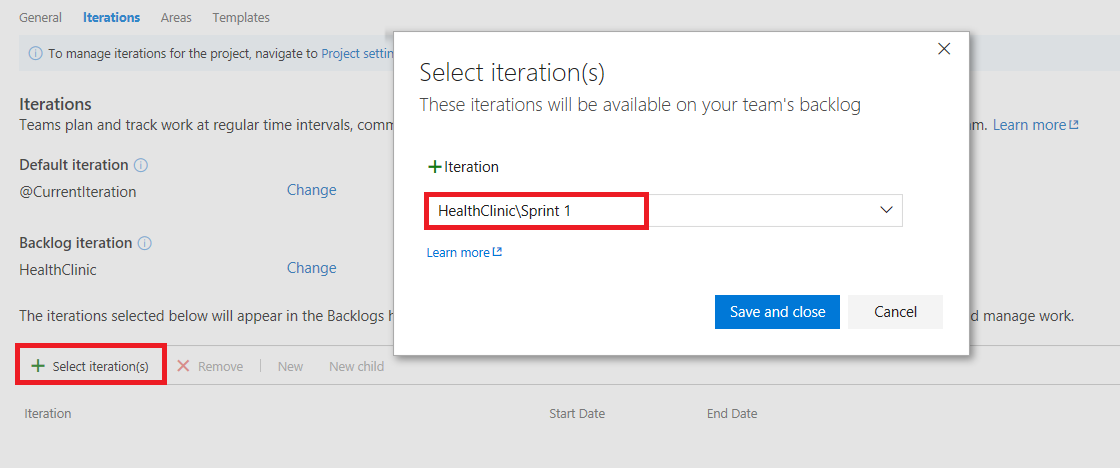
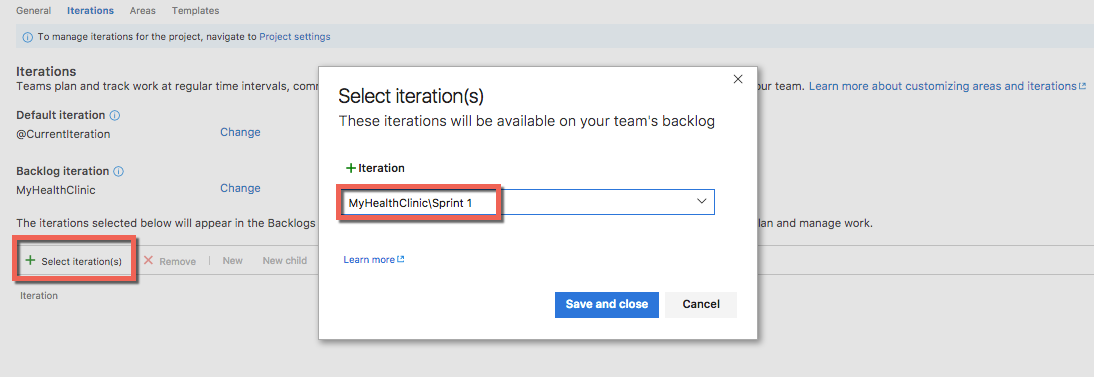
Updated exercise 1 to include the creation of teams/areas and setting management areas.

diff --git a/labs/vsts/agile/readme.md b/labs/vsts/agile/readme.md
@@ -8,91 +8,88 @@ folder: /labs/vsts/agile/
 
 ## Overview     
 
-In this lab, you will learn about the agile planning and portfolio management tools and processes provided by Visual Studio Team Services and how they can help you quickly plan, manage, and track work across your entire team. You will explore the product backlog, sprint backlog, and task boards which can be used to track the flow of work during the course of an iteration. We will also take a look at how the tools have been enhanced in this release to scale for larger teams and organizations.
+In this lab, you will learn about the agile planning and portfolio management tools and processes provided by Visual Studio Team Services and how they can help you quickly plan, manage, and track work across your entire team. You will explore the product backlog, sprint backlog, and task boards which can be used to track the flow of work during an iteration. We will also look at how the tools have been enhanced in this release to scale for larger teams and organizations.
 
 ## Pre-requisites
 
-In order to complete this lab you will need- 
+To complete this lab, you will need: 
 
 - **Visual Studio Team Services account**. If you don't have one, you can create from <a href="https://www.visualstudio.com/">here</a>
 
 - **Visual Studio 2017** or higher version
 
-- You can use the **[VSTS Demo Data generator](http://vstsdemogenerator.azurewebsites.net/Environment/Create)** to provison a project with pre-defined data on to your Visual Studio Team Services account. Please use the ***My Health Clinic*** template to follow the hands-on-labs.
-
-- If you are not using the VSTS Demo Data Generator, you can clone the code from here
+- You can use the **[VSTS Demo Data generator](http://vstsdemogenerator.azurewebsites.net/Environment/Create)** to provision a project with pre-defined data on to your Visual Studio Team Services account. Please use the ***My Health Clinic*** template to follow the hands-on-labs.
 
 
-**Connecting to your Project**
+## Connecting to your Project
 
 1.	Go to your VSTS account home page.
 
-2.	Click on the VS icon and browse to the MyHealthClinic project. At this moment we have only 1 project. You could select/create as many projects from here.
+2.	Click on the VS icon and brwse to the MyHealthClinic project. At this moment, we have only one project. You could select/create as many projects from here.
 
-    > If you haven't already, sign in to your Visual Studio Team Services account you can sign in by going to (https://{youraccount}.visualstudio.com />.
+    > If you haven't already, sign in to your Visual Studio Team Services account you can sign in by going to (https://{youraccount}.visualstudio.com).
 
     <img src="images/6.png" width="624" />
 
     
-## Exercise 1: Working with Team Areas and Iterations
+## Exercise 1: Working with Teams, Areas, and Iterations
 
 1.  Connect to the **MyHealthClinic** project.
 
-2.  Navigate to the administration overview page by choosing the gear icon.
+2.  Navigate to the **Administration Overview** page by choosing the gear icon.
 
     <img src="images/7.png" width="624" />
 
-3.  Check the existing teams, there are 3 teams by name **MyHealthClinic Team, Team 1, Team 2**.
-    The default team has the same name that of your VSTS project. You can create new teams if needed from here.
+3.  Check the existing teams, there are three teams by name **MyHealthClinic Team, Team1, and Team2**.
+    The default team has the same name as your VSTS project. You can create new teams if needed from here.
 
     <img src="images/8.png" width="624" />
 
-4.  In the Overview screen, we see our user as the only current member.
+4.  Delete both **Team 1** and **Team 2** by clicking the ellipsis next to each team and selecting **Delete**.
+
+    <img src="images/71.png" width="624" />
+
+5.  Now create a new team by clicking the **New team** link and giving it a name of **Web**.  Follow the same steps to create a team called **Database**.
+
+    <img src="images/72.png" width="624" />
+    <img src="images/73.png" width="624" />
+
+6.  While on the **Overview** screen, click on the default team to view the members.   We see our user as the only current member.
 
     <img src="images/10.png" width="624" />
     
 
-5.  Click **Add** button to add new members to the team.
+7.  Click **Add** button to add new members to the team.
 
     <img src="images/11.png" width="624" />
 
-6.  Click on the **Work** pane and go to **Areas**.
+8.  Because we are currently in the sub-area for the **Web** team.  We need to navigate back up to the default team so we can setup management of sub-area paths.  
 
-    <img src="images/12.png" width="624" />
+    <img src="images/74.png" width="624" />
 
-7.  Select the **MyHealthClinic** node and click on **New child**. Give a name for the area like **WEB**.
+9.  Select the **Work** tab at the top then select **Areas** option to view the area path for the team.
 
-    <img src="images/14.png" width="624" />
+    <img src="images/75.png" width="624" />
 
-8. You should see the areas listed below for the teams.
+10. Now we want to change the area path setting for management areas to include sub-area paths.  The default setting for all teams is to exclude sub-area paths.  Click on the ellipsis for **MyHealthClinic** and select **Include sub-areas**.
 
-    <img src="images/15.png" width="624" />
+    <img src="images/76.png" width="624" />
 
-9. Go to **Iterations** and click **Select Iteration**. Select **Sprint 1**.
+11. Go to **Iterations** and click **Select Iteration**. Select **Sprint 1**.
 
     <img src="images/16.png" width="624" />
 
-10. Click on **Change** for the default iteration. And set **MyHealthClinic** as the default one.
+12. Click on **Change** for the default iteration. And set **MyHealthClinic** as the default one.
 
     <img src="images/17.png"  />
 
     <img src="images/18.png"  />
 
-11. Go to **Areas**. As with iterations, VSTS have areas which can be used to organize the work fr the teams.
-We see the default area is set to **Cordova Team**, if not you can change it to Cordova Team area.
-
-    <img src="images/19.png" width="624" />
-
-12. Click on the ellipsis button to include sub-areas as shown
-
-    <img src="images/20.png" width="624" />
-
- 
 
 ## Exercise 2: Work Items in VSTS
 
 
-1.  Navigate to **Cordova Team** dashboard. This is the main screen for the Cordova team. 
+1.  Navigate to **Web** team dashboard. This is the main screen for the Web team. 
 
     <img src="images/21.png" width="624" />
 
